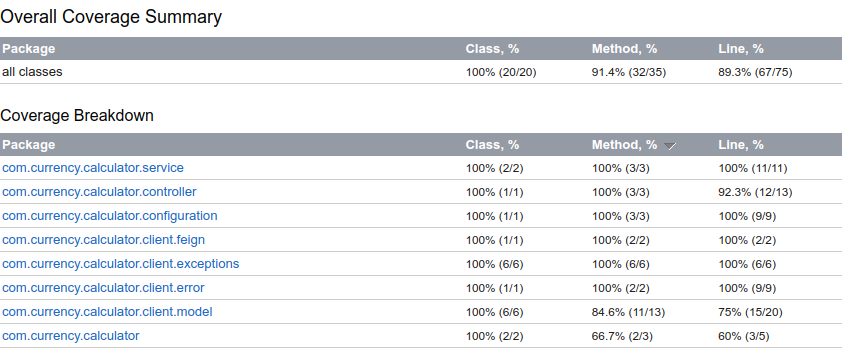
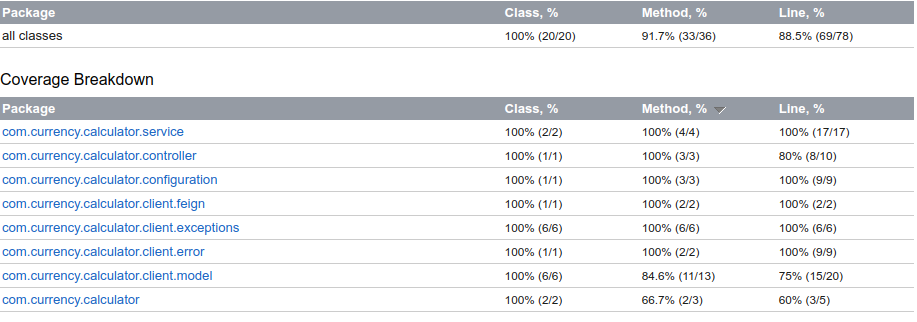
test: create exceptions test and fix exceptions implementations

diff --git a/src/test/kotlin/com/currency/calculator/service/ExchangeRateServiceTest.kt b/src/test/kotlin/com/currency/calculator/service/ExchangeRateServiceTest.kt
@@ -1,20 +1,36 @@
 package com.currency.calculator.service
 
 import com.currency.calculator.client.exceptions.BaseCodeNotFoundException
+import com.currency.calculator.client.exceptions.MalformedRequestException
 import com.currency.calculator.client.feign.ExchangeFeignClient
 import com.currency.calculator.client.model.RatesResponse
+import com.currency.calculator.controller.ExchangeRateController
+import com.currency.calculator.mock.RatesResponseMock
 import io.mockk.every
 import io.mockk.mockk
 import org.junit.jupiter.api.Assertions.assertEquals
 import org.junit.jupiter.api.Test
 import org.junit.jupiter.api.assertThrows
+import org.mockito.Mockito
+import org.springframework.beans.factory.annotation.Autowired
+import org.springframework.boot.test.autoconfigure.web.servlet.WebMvcTest
+import org.springframework.boot.test.mock.mockito.MockBean
+import org.springframework.test.web.servlet.MockMvc
+import org.springframework.test.web.servlet.request.MockMvcRequestBuilders.get
+import org.springframework.test.web.servlet.result.MockMvcResultMatchers.status
 
+@WebMvcTest(ExchangeRateController::class)
 class ExchangeRateServiceTest {
+
+    @Autowired
+    private lateinit var mockMvc: MockMvc
+
+    @MockBean
+    private lateinit var exchangeRateService: ExchangeRateService
 
     @Test
     fun `should return latest rates for a valid base code`() {
-
-// Arrange
+        // Arrange
         val baseCode = "BRL"
         val expectedConversionRates = RatesResponse(1.0, 5.0, 16.0, 4.0)
         val response = """
@@ -40,21 +56,68 @@ class ExchangeRateServiceTest {
         // Assert
         assertEquals(expectedConversionRates, result)
     }
-    
+
     @Test
-    fun `should throw base code NOT FOUND exception for an invalid base code` () {
-
-        val baseCode = "XYZ"
-
+    fun `should throw BaseCodeNotFoundException when base code is not found` () {
         val exchangeFeignClient = mockk<ExchangeFeignClient>()
-        every { exchangeFeignClient.getLatestExchangeFor(baseCode) } throws Exception("Base code not found")
-
         val exchangeRateService = ExchangeRateServiceImpl(exchangeFeignClient)
 
-        val exception = assertThrows<BaseCodeNotFoundException> {
+        val baseCode = "INVALID_BASE_CODE"
+        every { exchangeFeignClient.getLatestExchangeFor(baseCode) } throws Exception("Base code not found")
+
+        assertThrows<BaseCodeNotFoundException> {
             exchangeRateService.getLatestByBaseCode(baseCode)
         }
-        assertEquals("Base code $baseCode not found", exception.message)
+    }
+
+    @Test
+    fun `should calculate currency conversion`() {
+        // Arrange
+        val amount = 529.99
+        val exchangeFeignClient = mockk<ExchangeFeignClient>()
+        val exchangeRateService = ExchangeRateServiceImpl(exchangeFeignClient)
+
+        // Stub getLatestByBaseCode
+        val ratesResponseMock = RatesResponseMock()
+        val rates = ratesResponseMock.getLatestRates()
+        every { exchangeFeignClient.getLatestExchangeFor("BRL") } returns getMockApiResponse(rates)
+
+        // Act
+        val result = exchangeRateService.calculate(amount)
+
+        // Assert
+        val expectedResponse = mapOf(
+            "EUR" to (amount * rates.EUR),
+            "USD" to (amount * rates.USD),
+            "INR" to (amount * rates.INR)
+        )
+        assertEquals(expectedResponse, result)
+    }
+
+    @Test
+    fun `should throw MalformedRequestException when amount is invalid`() {
+        val invalidAmount = -100.0
+
+        Mockito.doThrow(MalformedRequestException("Invalid amount: $invalidAmount"))
+            .`when`(exchangeRateService).calculate(invalidAmount)
+
+        mockMvc.perform(get("/calculate/$invalidAmount"))
+            .andExpect(status().isBadRequest)
+    }
+
+    private fun getMockApiResponse(rates: RatesResponse): String {
+        // Return the mock API response as JSON
+        return """
+            {
+                "base_code": "BRL",
+                "conversion_rates": {
+                    "BRL": 1.0,
+                    "EUR": ${rates.EUR},
+                    "USD": ${rates.USD},
+                    "INR": ${rates.INR}
+                }
+            }
+        """.trimIndent()
     }
 
 }

diff --git a/src/main/kotlin/com/currency/calculator/controller/ExchangeRateController.kt b/src/main/kotlin/com/currency/calculator/controller/ExchangeRateController.kt
@@ -1,5 +1,7 @@
 package com.currency.calculator.controller
 
+import com.currency.calculator.client.exceptions.BaseCodeNotFoundException
+import com.currency.calculator.client.exceptions.MalformedRequestException
 import com.currency.calculator.client.model.RatesResponse
 import com.currency.calculator.service.ExchangeRateService
 import io.swagger.v3.oas.annotations.Operation
@@ -30,25 +32,29 @@ class ExchangeRateController(
         ApiResponse(responseCode = "404", description = "Base Code not found"),
     ])
     fun getLatestRatesFor(@PathVariable baseCode: String): ResponseEntity<RatesResponse> {
-
-        val response = exchangeRateService.getLatestByBaseCode(baseCode)
-        return if (response != null) ResponseEntity(response, HttpStatus.OK)
-        else ResponseEntity(HttpStatus.NOT_FOUND)
-
+        return try {
+            val response = exchangeRateService.getLatestByBaseCode(baseCode)
+            ResponseEntity(response, HttpStatus.OK)
+        } catch (e: BaseCodeNotFoundException) {
+            ResponseEntity(HttpStatus.NOT_FOUND)
+        }
     }
 
     @GetMapping("/calculate/{amount}")
-    @Operation(summary = "Calculate the rate conversion based on AMOUNT", description = "Retrieve a conversion rate list of registered rates based on its AMOUNT")
+    @Operation(
+        summary = "Calculate the rate conversion based on AMOUNT",
+        description = "Retrieve a conversion rate list of registered rates based on its AMOUNT")
     @ApiResponses(value = [
         ApiResponse(responseCode = "200", description = "Operation successful"),
         ApiResponse(responseCode = "400", description = "Malformed request")
     ])
     fun calculateCurrencyConversion(@PathVariable amount: Double): ResponseEntity<Map<String, Double>> {
-
-        val convertAmounts = exchangeRateService.calculate(amount)
-        return if (convertAmounts != null) ResponseEntity(convertAmounts, HttpStatus.OK)
-        else ResponseEntity(HttpStatus.BAD_REQUEST)
-
+        return try {
+            val convertAmounts = exchangeRateService.calculate(amount)
+            ResponseEntity(convertAmounts, HttpStatus.OK)
+        } catch (e: MalformedRequestException) {
+            ResponseEntity(HttpStatus.BAD_REQUEST)
+        }
     }
 
 }

diff --git a/src/test/kotlin/com/currency/calculator/controller/ExchangeRateControllerTest.kt b/src/test/kotlin/com/currency/calculator/controller/ExchangeRateControllerTest.kt
@@ -8,7 +8,7 @@ import org.mockito.Mockito
 import org.skyscreamer.jsonassert.JSONAssert
 import org.springframework.beans.factory.annotation.Autowired
 import org.springframework.boot.test.autoconfigure.web.servlet.AutoConfigureMockMvc
-import org.springframework.boot.test.context.SpringBootTest
+import org.springframework.boot.test.autoconfigure.web.servlet.WebMvcTest
 import org.springframework.boot.test.mock.mockito.MockBean
 import org.springframework.http.MediaType
 import org.springframework.test.context.TestPropertySource
@@ -19,7 +19,7 @@ import org.springframework.test.web.servlet.result.MockMvcResultMatchers
 
 @AutoConfigureMockMvc
 @ExtendWith(SpringExtension::class)
-@SpringBootTest(webEnvironment = SpringBootTest.WebEnvironment.RANDOM_PORT)
+@WebMvcTest(ExchangeRateController::class)
 @TestPropertySource(properties = ["exchange.url=https://v6.exchangerate-api.com/v6/test-api-key"])
 internal class ExchangeRateControllerTest {
 

diff --git a/src/main/kotlin/com/currency/calculator/service/ExchangeRateServiceImpl.kt b/src/main/kotlin/com/currency/calculator/service/ExchangeRateServiceImpl.kt
@@ -1,6 +1,7 @@
 package com.currency.calculator.service
 
 import com.currency.calculator.client.exceptions.BaseCodeNotFoundException
+import com.currency.calculator.client.exceptions.MalformedRequestException
 import com.currency.calculator.client.feign.ExchangeFeignClient
 import com.currency.calculator.client.model.ExchangeRatesResponse
 import com.currency.calculator.client.model.RatesResponse
@@ -27,6 +28,10 @@ class ExchangeRateServiceImpl(
     }
 
     override fun calculate(amount: Double): Map<String, Double> {
+
+        if (amount <= 0.0) {
+            throw MalformedRequestException("Invalid amount: $amount")
+        }
 
         val conversionRates = getLatestByBaseCode("BRL")
         val convertAmounts = mutableMapOf<String, Double>()

diff --git a/src/main/kotlin/com/currency/calculator/client/exceptions/BaseCodeNotFoundException.kt b/src/main/kotlin/com/currency/calculator/client/exceptions/BaseCodeNotFoundException.kt
@@ -1,3 +1,3 @@
 package com.currency.calculator.client.exceptions
 
-class BaseCodeNotFoundException(message: String) : Exception(message)
+class BaseCodeNotFoundException(message: String) : RuntimeException(message)

diff --git a/src/main/kotlin/com/currency/calculator/client/exceptions/MalformedRequestException.kt b/src/main/kotlin/com/currency/calculator/client/exceptions/MalformedRequestException.kt
@@ -1,3 +1,3 @@
 package com.currency.calculator.client.exceptions
 
-class MalformedRequestException(message: String) : Exception(message)
+class MalformedRequestException(message: String) : RuntimeException(message)
